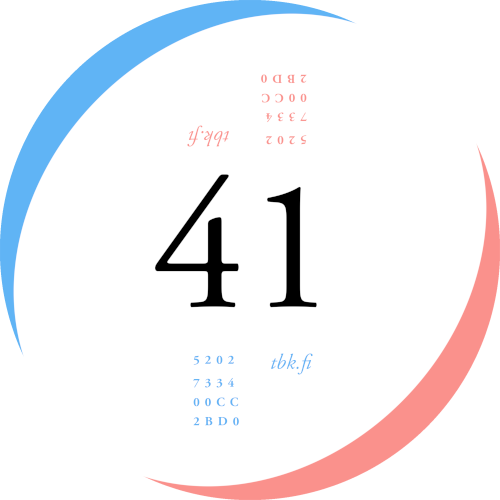
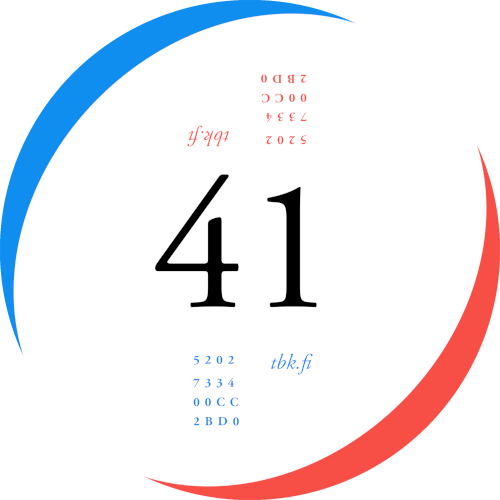
colour fixes

diff --git a/index.html b/index.html
@@ -18,7 +18,7 @@
     <header>
      <img class="avatar" src="assets/media/profile-2020-person.webp" alt="profile picture (person)">
      <!-- <img class="avatar" src="assets/media/profile-2020-online_02R500.png" alt="profile picture (online)"> -->
-      <img class="signature" src="assets/media/sig-1e_AR-EB.png" alt="e-signature image">
+      <img class="signature" src="assets/media/sig-1e_AR-EB.webp" alt="e-signature image">
     </header>
    </div>
   <hr class="divider">

diff --git a/assets/css/style.css b/assets/css/style.css
@@ -9,8 +9,8 @@ ver.:     1 @ 2022-06-01
 */
 
 :root {
-  --colour-primary: #60b4f5;
-  --colour-secondary: #fa918c;
+  --colour-primary: #0f8ef0;
+  --colour-secondary: #f74e45;
   --colour-white: #fffaf5;
   --colour-black: #1e0f00;
 }
